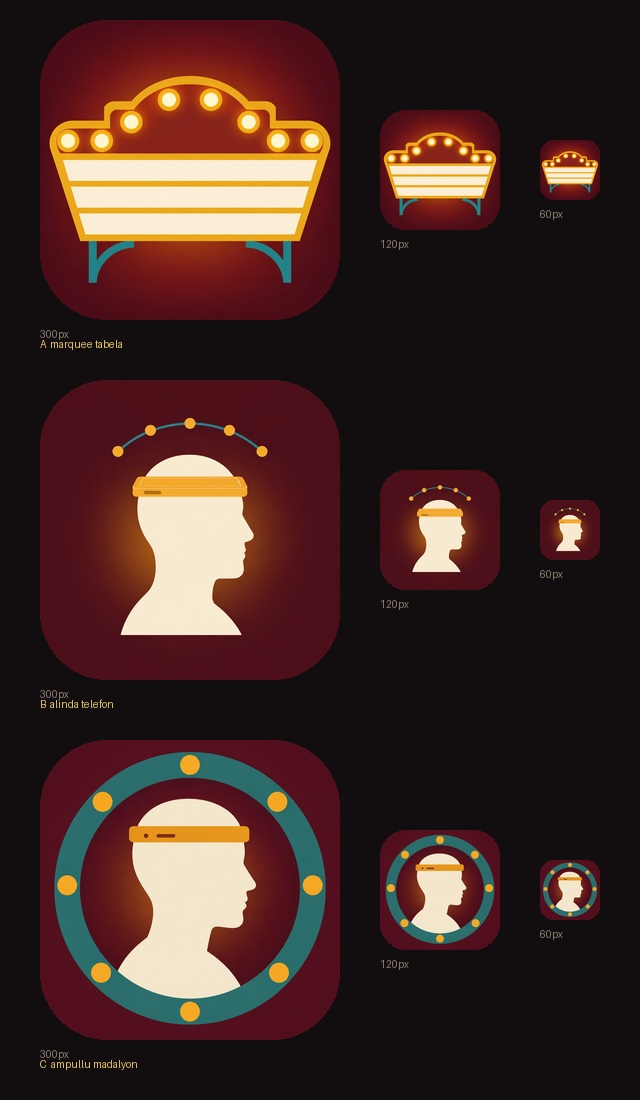
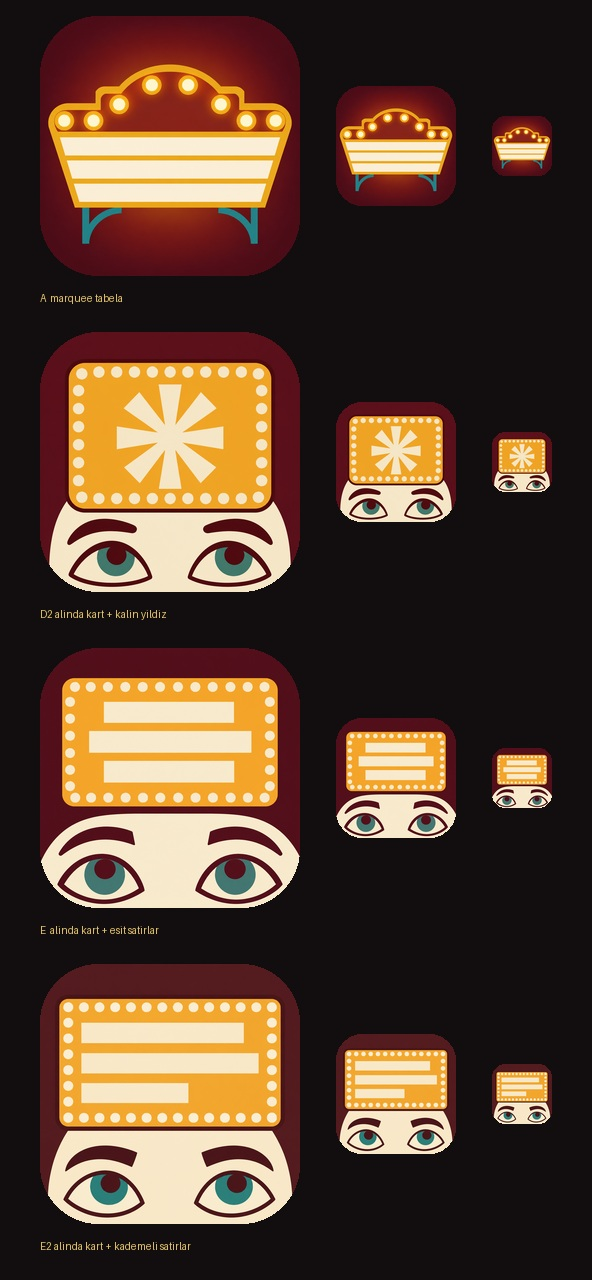
dqwdqw

diff --git a/Charedes_document/01-tasarim-sistemi.md b/Charedes_document/01-tasarim-sistemi.md
@@ -456,7 +456,7 @@ ok yönü ve `DOĞRU`/`PAS` damga şekli de farklı (§7).
 |---|---|---|---|
 | 1 | Alnında telefon tutan figür, karşısında 3 kişi | 4:3, şeffaf | **Üretildi** — `ekran-gorselleri/seffaf/ob_forehead.png` |
 | 2 | Mim yapan figür + üstü çizili konuşma balonu | 4:3, şeffaf | **Üretildi** — `ekran-gorselleri/seffaf/ob_mime.png` |
-| 3 | App ikonu | 1024×1024 opak | 3 aday üretildi, seçim bekliyor |
+| 3 | App ikonu | 1024×1024 opak | **Üretildi** — `ekran-gorselleri/app-ikonu/ikon-1024.png` (aday H) |
 | 4 | App Store ekran görüntüleri | Cihaz başına set | Bekliyor; §`03` ASO ile birlikte |
 
 İlk ikisi deste kapağı hattının chroma-key matematiğini aynen kullanıyor
@@ -487,19 +487,48 @@ Kapaklarda karşılaşmadığımız iki hata bu iki görselde çıktı ve kural 
 
 ### 6.4 App ikonu
 
-Üç aday `ekran-gorselleri/app-ikonu/` altında, karşılaştırma sayfası
-`ekran-gorselleri/_qc/app-ikonu.jpg`. Adaylar 300/120/60 px olarak yan yana
+Adaylar `ekran-gorselleri/app-ikonu/` altında, karşılaştırma sayfası
+`ekran-gorselleri/_qc/app-ikonu.jpg`. Adaylar 260/120/60 px olarak yan yana
 basılıyor, çünkü ikonun asıl sınavı 60 px.
 
 | Aday | Fikir | 60 px'te |
 |---|---|---|
-| A | Ampullü marquee tabelası | Okunuyor — silüeti belirgin, parlak amber çember dikkat çekiyor |
-| B | Alnında telefon tutan profil + ampul yayı | Kafa okunuyor, telefon ince bir banda dönüşüp saç bandı gibi duruyor; ampul yayı dağılıyor |
-| C | Ampullü madalyon içinde aynı profil | Çember baskın, kafa lekeye dönüyor, telefon yok oluyor |
+| A | Ampullü marquee tabelası | Okunuyor, silüeti belirgin; ama oyunun ne olduğunu anlatmıyor |
+| B | Alnında telefon tutan profil + ampul yayı | Telefon ince banda dönüşüp saç bandı gibi duruyor, ampul yayı dağılıyor |
+| D | Alında ampullü kart, altında gözler, kartta kalın yıldız | Yıldız lekeye dönüyor |
+| E | Aynı kompozisyon, kartta üç eşit boş satır | Üç satır ayrı ayrı ayakta kalıyor, gözler net |
+| E2 | Aynısı, satırlar kademeli uzunlukta | En iyisi — kademeli satır "gizli yazı" okunuyor, eşit satırın hamburger menü riski yok |
+| F | Ters şema: krem kart, amber çerçeve, bordo satırlar | Bordo satırlar tek koyu lekeye birleşiyor; ayrıca kart kremi yüz kremiyle aynı, kart–yüz sınırı kayboluyor |
+| G | Kartı iki el tutuyor, kart hafif eğik | 260 px'te anlatımı en net aday, ama eller 60 px'te gürültüye dönüşüp kartı küçültüyor |
+| H | Kart film şeridi: üstte ve altta sprocket delik sırası | E2'ye en yakın rakip; delikler kesikli bant olarak hayatta kalıyor, ama şerit jenerik "video kartı" gibi de okunabiliyor |
 
-App ikonu için katı kurallar: **alfa kanalı ve şeffaflık yasak**, köşeler yuvarlanmamış
-tam kare verilir (iOS kendi maskeler), ikonun içine metin konmaz — 25 dilde tek
-ikon kullanıyoruz.
+Tur 2 karşılaştırması `ekran-gorselleri/_qc/app-ikonu-tur2.jpg`. Finalistler
+**E2** ve **H** oldu; ayrım fikirde: E2'nin ampul çerçevesi arayüzün marquee
+diline, H'nin şeridi film motifine bağlanıyor.
+
+**Karar: H — film şeridi kart.** Teslim dosyası
+`ekran-gorselleri/app-ikonu/ikon-1024.png` (RGB, 1024×1024, alfa yok).
+Sprocket delikleri 60 px'te kesikli bant olarak ayakta kalıyor ve şerit, ampul
+çerçevesinden daha az piksel harcayıp kart yüzeyini büyük bırakıyor — üç boş
+satır bu yüzden daha net okunuyor.
+
+**Kompozisyon kararı, alında kart + altında gözler.** Referans olarak bakılan
+uygulamanın ikonu da bu yapıyı kullanıyor ve küçük boyutta çalışmasının nedeni
+belli: alındaki kart tek büyük düz şekil, gözler iki yüksek kontrastlı leke —
+ikisi de 60 px'te hayatta kalıyor. Bizde tek fark, kartın üzerine **yazı
+konmaması**: referans ikonda uygulama adı karta gömülü, biz 25 dil için tek ikon
+kullandığımızdan onun yerine sprocket şeridi ve boş satır çubukları var. Üç
+kademeli boş çubuk "kartta bir kelime var ama sen göremiyorsun" fikrini tek harf
+kullanmadan anlatıyor.
+
+Yüz burada da silüet kuralına tabi: **krem düz dolgu, ten tonu yok**, sadece
+gözler ve kaşlar bordo. Gözlerin turkuaz irisi paletin içinden geliyor.
+
+App ikonu için katı kurallar: **alfa kanalı ve şeffaflık yasak**, köşeler
+yuvarlanmamış tam kare verilir (iOS kendi maskeler) ve kartın kenarları köşelere
+dayanmaz — squircle maskesi köşeye taşan detayı kırpıyor. İkonun içine metin
+konmaz. Teslim dosyası bu ölçütlerden geçti: RGB, palet dışı %0.69 (yalnızca
+anti-alias kenarları), pembe/mor kalıntı yok, dört köşe opak.
 
 ---
 

diff --git a/Charedes_document/00-OZET.md b/Charedes_document/00-OZET.md
@@ -108,6 +108,8 @@ Taslaklar üzerine notlar:
 | Deste çeşitliliği | 6 eksende dengelenmiş (kitle, oynanabilirlik, bilgi, dönem, kültür, sezon) + `playability` alanı (`mime`/`describe`/`both`) |
 | IP politikası | Deste adlarında ve kapaklarda **marka/telifli karakter yok** — jenerik adlandırma |
 | Deste kapakları | **92/92 üretildi.** Şeffaf amblem (1024×1024 RGBA), görselde yazı yok → 25 dilde tek görsel. Bkz. `kapaklar.html` |
+| Ekran görselleri | Onboarding illüstrasyonları **2/2 üretildi**; kalan tüm ikonlar SF Symbols ya da kodla çiziliyor. Bkz. `01` §6 |
+| App ikonu | **Seçildi ve üretildi** — alında film şeridi kart, altında gözler. `ekran-gorselleri/app-ikonu/ikon-1024.png` |
 | Ücretsiz erişim | **1 deste** (Parti Başlangıcı) + günlük rotasyonlu 1 bedava deste |
 | Monetizasyon | Sadece abonelik (RevenueCat), reklam **yok** |
 | Abonelik planları | **Haftalık (3 gün deneme) · Aylık · Yıllık** |
